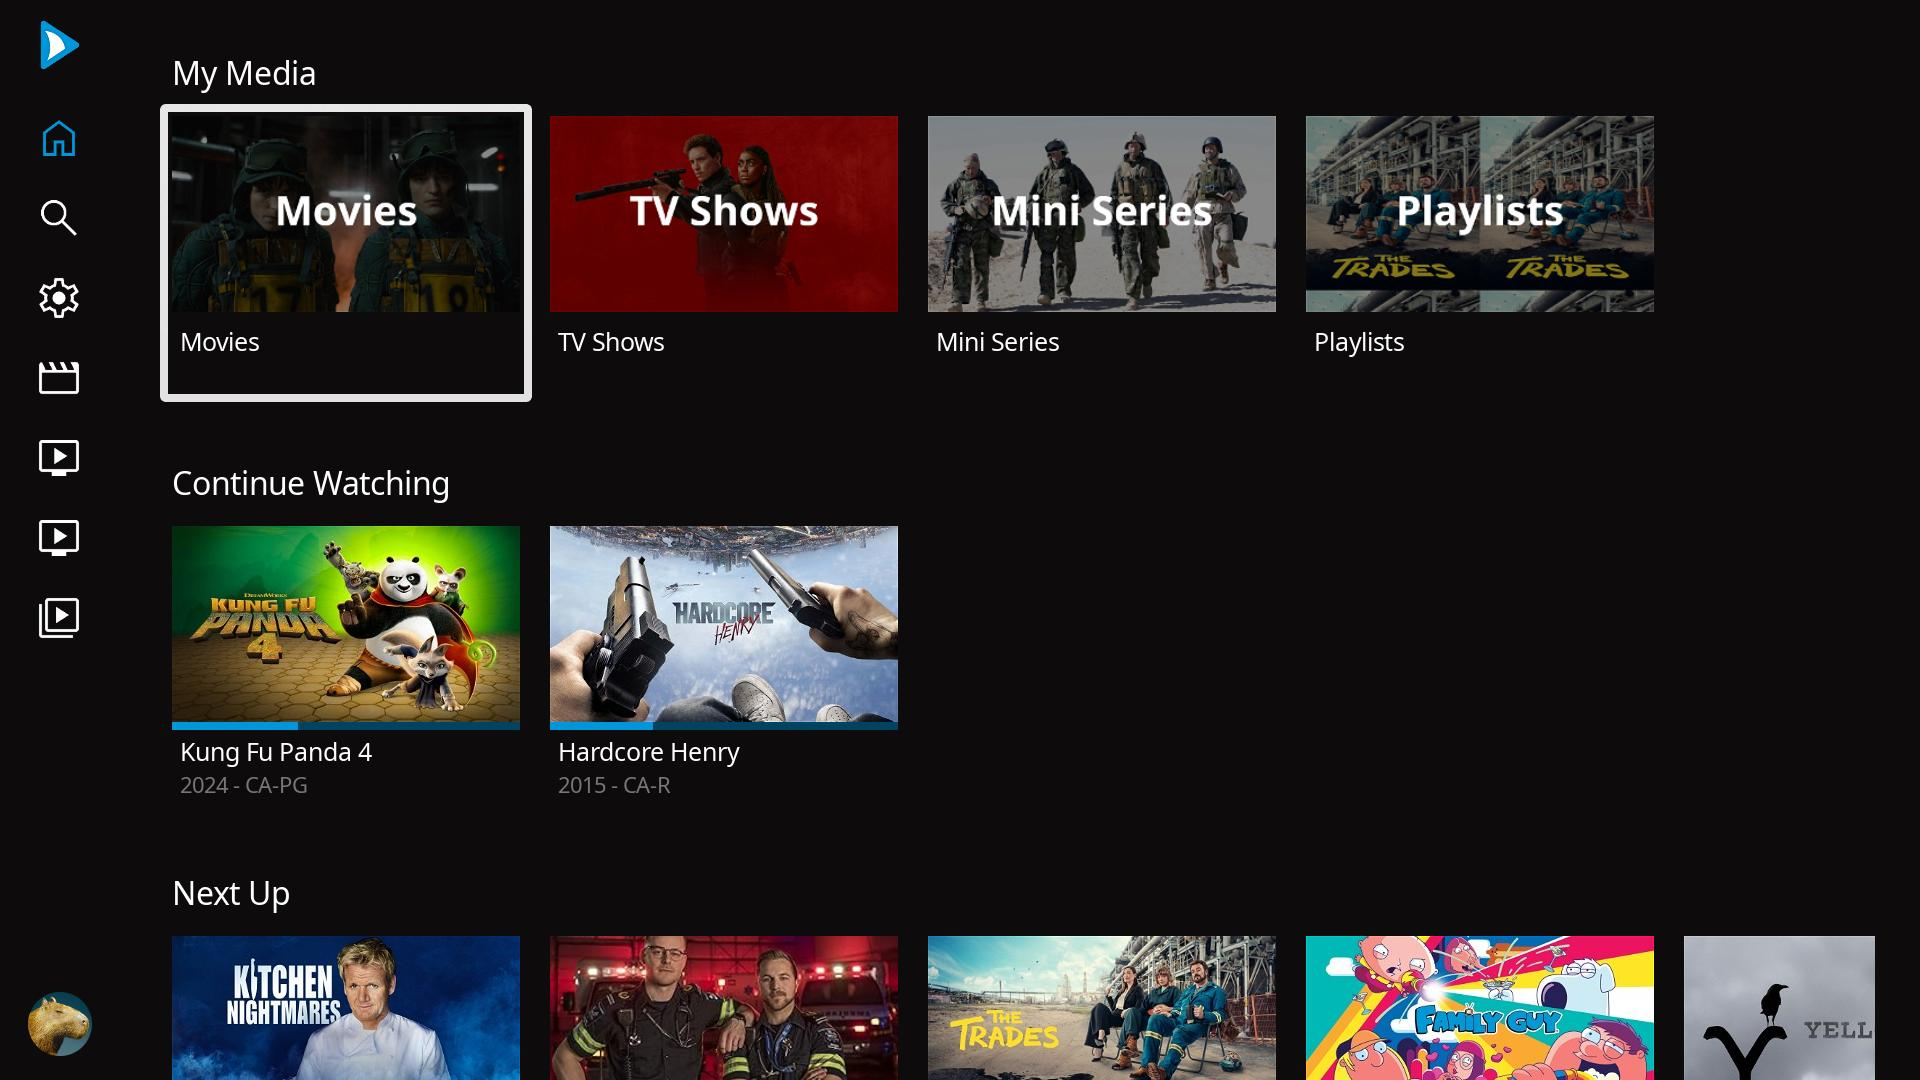
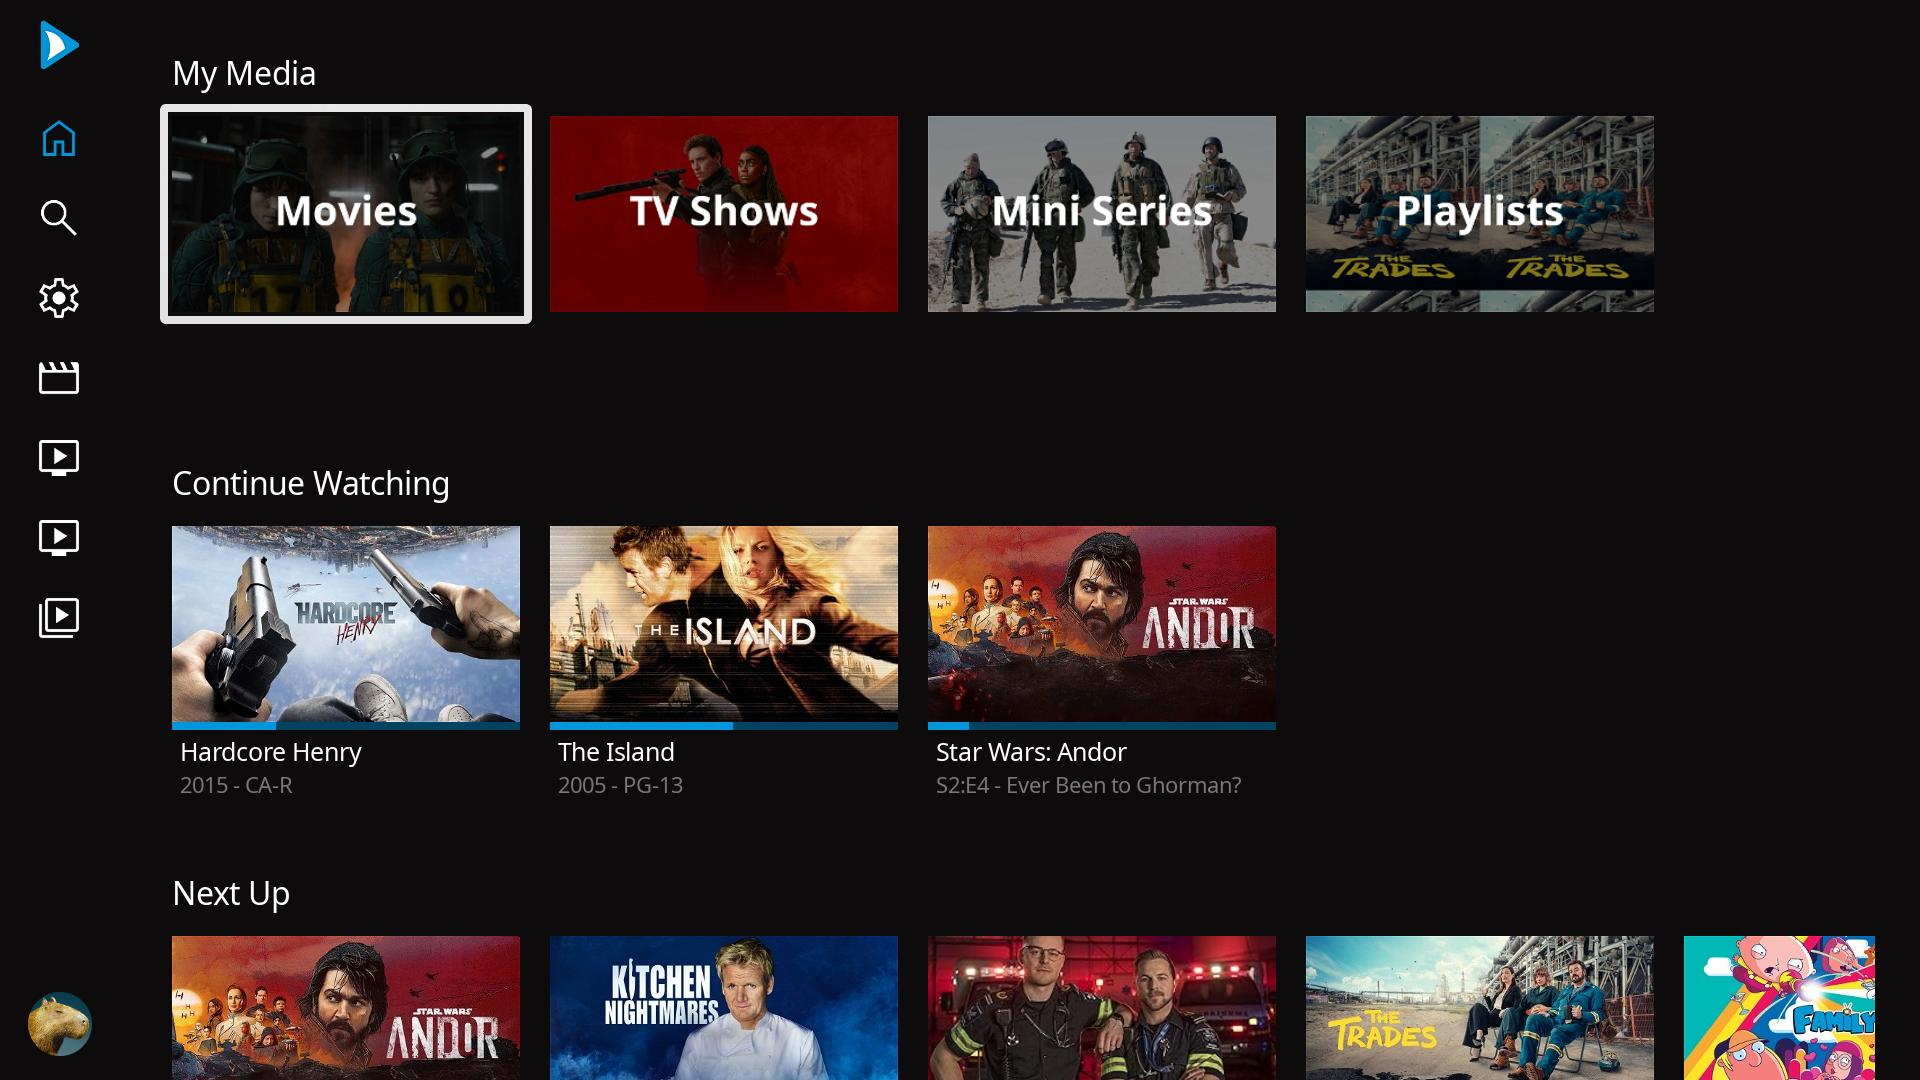
-replace screenshot -fix crash on launch

diff --git a/README.md b/README.md
@@ -13,7 +13,7 @@
 It is **not affiliated with the Jellyfin project**.
 
 ## Screenshots
-Screenshots below may be outdated. Last screenshots taken: **2025-05-06**
+Screenshots below may be outdated. Last screenshots taken: **2025-05-07**
 
 <p align="center">
   <img src="screenshots/1.jpg" alt="Homepage" width="600" />
